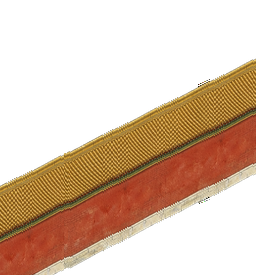
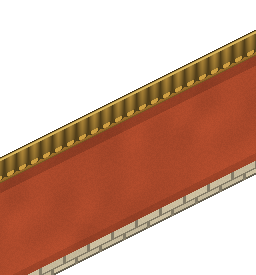
宫墙推倒重设计 v7：程序化整段生成（gen_palace_wall.py）替代 AI 画段拼接——图案 f(u,d) 以 192 为周期（u6 脸[0..192)/v6 脸[64..256) 各恰一周期），u/v 两类墙接缝相位差由构造归零；脊线=地面-145 对齐角楼墩台顶边(147)与宫门城台压眉石线，消除高度不匹配；结构带 脊描边1+脊滚3+筒瓦15+瓦当半圆3+釉线4+朱红墙身105+台基14，筒瓦12px/石块24px 周期锁定；调色板自 v4 素材分带采样延续工笔风格；回归 76/76

diff --git a/shanhai/tools/gen_palace_wall.py b/shanhai/tools/gen_palace_wall.py
@@ -1,0 +1,302 @@
+"""
+宫墙程序化生成 v7（2026-11-20 推倒重设计）：
+ AI 画段拼接路线（v4 端头修复 → v5 剖面标准化 → v6 周期锁定搜索）已到极限：
+ 素材纹理周期(~13.9px)不整除 192px 面宽，拼接相位缝/色调梯度缝只能逼近无法归零；
+ 且墙高(132)与角楼墩台顶边(145)、宫门城台顶边(~130-140) 各差 5~15px。
+
+ v7 = 程序化整段绘制，一切由构造保证：
+ - 图案 f(u,d) 以 192 为周期（u = 面内流坐标），u6 脸 [0..192)、v6 脸 [64..256)
+   均恰好覆盖一个完整周期 → u 墙接缝(列191→列0) 与 v 墙接缝(列255→列64)
+   相位差恒等于 0，像素级连续；
+ - 脊线 = 地面线 - 145，与角楼墩台顶边(≈147)对齐（宫墙顶=墩台顶，可上人行走）；
+ - 结构带（d=脊下深度）：脊线描边 1 + 脊滚 3 + 筒瓦 15 + 瓦当 3 + 石绿釉线 4
+   + 朱红墙身 105 + 台基 14 = 145；
+ - 筒瓦 12px/张（192/16 整除）、台基石块 24px（192/8 整除），全部周期锁定；
+ - 调色板从 v4 素材分带采样（金/朱红/石色/釉绿），与场景工笔风格延续；
+ - 噪声全部基于 (u,d) 确定性哈希，u 已 mod 192 → 天然 192 周期，无接缝漂移；
+ - v6 独立生成（非镜像）：几何按 v 墙走向（脊线向左上），图案相位 (c-64)。
+"""
+import json
+import io
+import subprocess
+import numpy as np
+from PIL import Image
+
+ROOT = __file__.rsplit('\\tools', 1)[0]
+MOD_PUBLIC = ROOT + '/public/assets/art/iso'
+MOD_SRC = ROOT + '/assets_src/modules'
+REPO = ROOT + '/..'
+
+W, HCV = 256, 275
+U6_ANCHOR = (192, 270)
+V6_ANCHOR = (64, 270)
+P = 192                 # 图案周期 = 脸长
+TILE = 12               # 筒瓦宽
+H_ART = 145             # 脊线到地面线（沿锚点线）
+CAP = 22                # 瓦帽带（脊滚3+筒瓦15+瓦当3=22，含描边1）
+RUST = 4                # 石绿釉线
+BASE = 14               # 台基
+D_BODY0 = CAP + RUST    # 26
+D_BASE0 = H_ART - BASE  # 131
+
+
+# ---------- 确定性哈希噪声 ----------
+def h2i(i, j, seed):
+    n = (i * 374761393 + j * 668265263 + seed * 2654435761) & 0xFFFFFFFF
+    n ^= n >> 13
+    n = (n * 1274126177) & 0xFFFFFFFF
+    n ^= n >> 16
+    return n
+
+
+def h2(i, j, seed):
+    return h2i(int(i) & 0xFFFFFFFF, int(j) & 0xFFFFFFFF, seed) / 4294967295.0
+
+
+def vnoise(u, d, seed, cell=24.0, ucyc=8):
+    """值噪声（双线性），u 方向按 ucyc 格周期回卷 → 192 周期"""
+    gu, gd = u / cell, d / cell
+    i0 = int(np.floor(gu)) % ucyc
+    j0 = int(np.floor(gd))
+    fu, fd = gu - np.floor(gu), gd - np.floor(gd)
+    fu = fu * ucyc / (ucyc - 1) if fu * ucyc >= ucyc - 1 else fu * (ucyc / (ucyc - 1))
+    fu = min(fu, 1.0)
+    s = fu * fu * (3 - 2 * fu)
+    t = fd * fd * (3 - 2 * fd)
+    v00 = h2(i0, j0, seed); v10 = h2((i0 + 1) % ucyc, j0, seed)
+    v01 = h2(i0, j0 + 1, seed); v11 = h2((i0 + 1) % ucyc, j0 + 1, seed)
+    return (v00 * (1 - s) + v10 * s) * (1 - t) + (v01 * (1 - s) + v11 * s) * t
+
+
+# ---------- 调色板：从 v4 素材分带采样 ----------
+def sample_palette():
+    blob = subprocess.run(
+        ['git', 'show', 'HEAD:shanhai/public/assets/art/iso/palace_wall_u6.png'],
+        capture_output=True, check=True, cwd=REPO).stdout
+    a = np.array(Image.open(io.BytesIO(blob)).convert('RGBA')).astype(np.float64)
+    alpha = a[:, :, 3]
+    top = np.full(W, -1.0); bot = np.full(W, -1.0)
+    for x in range(W):
+        ys = np.where(alpha[:, x] > 8)[0]
+        if len(ys):
+            top[x] = ys[0]; bot[x] = ys[-1]
+    top_s = np.full(W, np.nan); bot_s = np.full(W, np.nan)
+    for x in range(W):
+        if top[x] >= 0:
+            win = top[max(0, x - 3):x + 4]
+            win = win[win >= 0]
+            top_s[x] = np.median(win) if len(win) else np.nan
+            win = bot[max(0, x - 3):x + 4]
+            win = win[win >= 0]
+            bot_s[x] = np.median(win) if len(win) else np.nan
+
+    def band_median(d0, d1, x0=60, x1=180, anchor='top'):
+        vals = []
+        for x in range(x0, x1):
+            ref = bot_s[x] if anchor == 'bot' else top_s[x]
+            if np.isnan(ref):
+                continue
+            ridge = ref
+            ys = np.arange(int(ridge + d0), int(ridge + d1))
+            ys = ys[ys < a.shape[0]]
+            if len(ys) == 0:
+                continue
+            m = (alpha[ys, x] > 8)
+            if m.sum() == 0:
+                continue
+            vals.append(a[ys[m], x, :3].reshape(-1, 3))
+        v = np.concatenate(vals)
+        return tuple(int(q) for q in np.median(v, axis=0))
+
+    pal = {
+        'roll':  band_median(1, 4),      # 脊滚
+        'tile':  band_median(5, 17),     # 筒瓦身
+        'eave':  band_median(18, 21),    # 滴水/瓦当带
+        'rust':  band_median(23, 26),    # 釉线（素材原样）
+        'body':  band_median(40, 95),    # 墙身
+        'base':  band_median(-13, -2, anchor='bot'),  # 台基（相对底边）
+    }
+    # 衍生色
+    g = np.array(pal['tile'], dtype=np.float64)
+    pal['tile_hi'] = tuple(int(min(255, q * 1.22)) for q in g)
+    pal['tile_lo'] = tuple(int(q * 0.52) for q in g)
+    pal['joint'] = tuple(int(q * 0.48) for q in g)
+    pal['ridge_dark'] = tuple(int(q * 0.42) for q in g)
+    r = np.array(pal['rust'], dtype=np.float64)
+    pal['rust_dark'] = tuple(int(q * 0.72) for q in r)
+    b = np.array(pal['body'], dtype=np.float64)
+    pal['body_shadow'] = tuple(int(q * 0.82) for q in b)
+    pal['body_low'] = tuple(int(q * 0.90) for q in b)
+    st = np.array(pal['base'], dtype=np.float64)
+    pal['base_joint'] = tuple(int(q * 0.66) for q in st)
+    pal['base_dark'] = tuple(int(q * 0.52) for q in st)
+    return pal
+
+
+# ---------- 图案函数 ----------
+def wall_color(u, d, pal):
+    """(u,d) → RGB 元组；u∈[0,192) 图案坐标，d=脊下深度"""
+    ru, rd = float(u), float(d)
+    if rd < 0 or rd >= H_ART:
+        return None
+    if rd < 1:                                   # 脊线描边
+        return pal['ridge_dark']
+    if rd < CAP - 3:                             # 脊滚 + 筒瓦身
+        if rd < 4:
+            f = (rd - 1) / 3.0                   # 脊滚：暗-亮-暗 圆滚
+            shade = 0.78 + 0.40 * np.sin(np.pi * f)
+            c = np.array(pal['roll'], dtype=np.float64)
+            return tuple(int(min(255, q * shade)) for q in c)
+        k = int(ru // TILE)
+        uc = k * TILE + TILE / 2.0
+        du = abs(ru - uc)
+        tv = 1.0 - 0.52 * (du / (TILE / 2.0)) ** 1.4
+        tv *= 1.0 + 0.10 * (h2(k % 16, 0, 71) - 0.5)
+        c = np.array(pal['tile'], dtype=np.float64)
+        if du > TILE / 2.0 - 0.7:
+            return pal['joint']
+        out = c * max(tv, 0.30)
+        out *= (1.0 - 0.16 * (rd - 4) / 14.0)    # 上亮下暗
+        return tuple(int(min(255, q)) for q in out)
+    if rd < CAP + RUST:                          # 滴水瓦当带 + 石绿釉线
+        k = int(ru // TILE)
+        uc = k * TILE + TILE / 2.0
+        du = abs(ru - uc)
+        drop = rd - (CAP - 3)                    # 0..7 下垂深度
+        dist = np.sqrt(du ** 2 + (max(0.0, drop - 1.2)) ** 2)
+        if drop < 3.6 and dist < 4.6:            # 瓦当半圆（下垂越过带界）
+            rim = dist > 3.6
+            return pal['joint'] if rim else pal['tile_hi']
+        if rd < CAP:                             # 滴水带底
+            if du > TILE / 2.0 - 0.7:
+                return pal['joint']
+            return pal['tile_lo']
+        f = (rd - CAP) / RUST                    # 石绿釉线
+        c = np.array(pal['rust'], dtype=np.float64)
+        col = c * (1.0 - 0.18 * f)
+        if rd >= CAP + RUST - 1:
+            col = np.array(pal['rust_dark'], dtype=np.float64)
+        return tuple(int(q) for q in col)
+    if rd < D_BASE0:                             # 朱红墙身
+        c = np.array(pal['body'], dtype=np.float64)
+        n1 = vnoise(ru, rd, 21)
+        n2 = h2(int(ru), int(rd), 33)
+        f = 1.0 + 0.11 * (n1 - 0.5) + 0.07 * (n2 - 0.5)
+        if rd < D_BODY0 + 10:
+            f *= 0.85                            # 瓦帽投影
+        if rd > D_BASE0 - 8:
+            f *= 0.90                            # 台基压顶
+        return tuple(int(min(255, max(0, q * f))) for q in c)
+    if rd < H_ART:                               # 台基（两皮石块）
+        c = np.array(pal['base'], dtype=np.float64)
+        upper = rd < (D_BASE0 + H_ART) / 2.0
+        off = 0 if upper else TILE
+        blk = int((ru + off) // (2 * TILE))
+        f = 1.0 + 0.06 * (h2(blk % 8, 0 if upper else 1, 51) - 0.5)
+        f += 0.05 * (h2(int(ru), int(rd), 57) - 0.5)
+        jv = (ru + off) % (2 * TILE)
+        if jv < 1.2 or jv > 2 * TILE - 1.2:
+            return pal['base_joint']
+        if abs(rd - (D_BASE0 + H_ART) / 2.0) < 0.8:
+            return pal['base_joint']
+        if rd >= H_ART - 2:
+            return pal['base_dark']
+        return tuple(int(min(255, max(0, q * f))) for q in c)
+    return None
+
+
+# ---------- 几何 ----------
+def ground_u(x):
+    """u 墙地面线（锚点线）"""
+    return 174.0 + 0.5 * x
+
+
+def ground_v(c):
+    """v 墙地面线：前底顶点在列 64"""
+    return 270.0 + 0.5 * (64 - c) if c < 64 else 270.0 - 0.5 * (c - 64)
+
+
+def build(kind, pal):
+    """kind='u6'|'v6' → RGBA 数组"""
+    out = np.zeros((HCV, W, 4), dtype=np.uint8)
+    for x in range(W):
+        if kind == 'u6':
+            g = ground_u(x)
+            u = x % P
+        else:
+            g = ground_v(x)
+            u = (x - 64) % P
+        ridge = g - H_ART
+        y0 = max(0, int(np.ceil(ridge)))
+        y1 = min(HCV, int(np.floor(g)) + 1)
+        for y in range(y0, y1):
+            d = y - ridge
+            col = wall_color(u, d, pal)
+            if col is not None:
+                out[y, x, :3] = col
+                out[y, x, 3] = 255
+    return out
+
+
+def main():
+    pal = sample_palette()
+    print('调色板:', {k: v for k, v in pal.items() if not k.endswith(('hi', 'lo', 'dark', 'joint', 'shadow', 'low'))})
+
+    u6 = build('u6', pal)
+    v6 = build('v6', pal)
+
+    # —— 验证 1：接缝相位连续（条带拼接后列差无尖峰）——
+    strip = np.zeros((HCV + 96, 192 + W, 4), dtype=np.uint8)
+    strip[:HCV, :W] = u6
+    strip[96:96 + HCV, 192:192 + W] = u6
+    g = strip[:, :, :3].astype(np.float64)
+    D = []
+    for x in range(150, 233):
+        local = x - 192 if x >= 192 else x
+        gr = ground_u(local) + (96 if x >= 192 else 0)
+        ridge = gr - H_ART
+        y0, y1 = max(0, int(ridge)), min(strip.shape[0], int(gr))
+        n = min(y1 - y0, strip.shape[0] - y0)
+        if n <= 0:
+            continue
+        D.append(np.abs(g[y0:y0 + n, x] - g[y0:y0 + n, x + 1]).mean())
+    D = np.array(D)
+    seam = D[191 - 150]
+    base = np.median(np.delete(D, 191 - 150))
+    print(f'u 墙接缝列差: {seam:.1f} / 基线 {base:.1f} (差 {seam - base:+.1f})')
+
+    # —— 验证 2：墙顶剖面贴合理想线 ——
+    al = u6[:, :, 3]
+    err = []
+    for x in range(0, 192, 24):
+        ridge = ground_u(x) - H_ART
+        ys = np.where(al[:, x] > 8)[0]
+        if len(ys):
+            err.append(int(ys[0] - round(ridge)))
+    print('墙顶-理想线:', err)
+
+    for name, im in [('palace_wall_u6.png', Image.fromarray(u6)), ('palace_wall_v6.png', Image.fromarray(v6))]:
+        for d in (MOD_PUBLIC, MOD_SRC):
+            im.save(d + '/' + name)
+            print('saved', d.replace(ROOT, '.') + '/' + name, im.size)
+
+    note = ('2026-11-20 v7 推倒重设计：程序化整段绘制（gen_palace_wall.py 可复跑），'
+            '图案 f(u,d) 以 192 为周期、筒瓦12px/台基石块24px 全部整除面宽，'
+            'u/v 两类墙接缝相位差恒 0 像素级连续；脊线=地面-145 与角楼墩台顶边对齐；'
+            '调色板自 v4 素材分带采样延续工笔风格')
+    for name in ['palace_wall_u6.json', 'palace_wall_v6.json']:
+        for d in (MOD_PUBLIC, MOD_SRC):
+            jp = d + '/' + name
+            try:
+                with open(jp, encoding='utf-8') as f:
+                    meta = json.load(f)
+                meta['seam_note'] = note
+                with open(jp, 'w', encoding='utf-8') as f:
+                    json.dump(meta, f, ensure_ascii=False, indent=1)
+                print('updated', jp.replace(ROOT, '.'))
+            except FileNotFoundError:
+                print('skip (missing)', jp.replace(ROOT, '.'))
+
+
+if __name__ == '__main__':
+    main()
